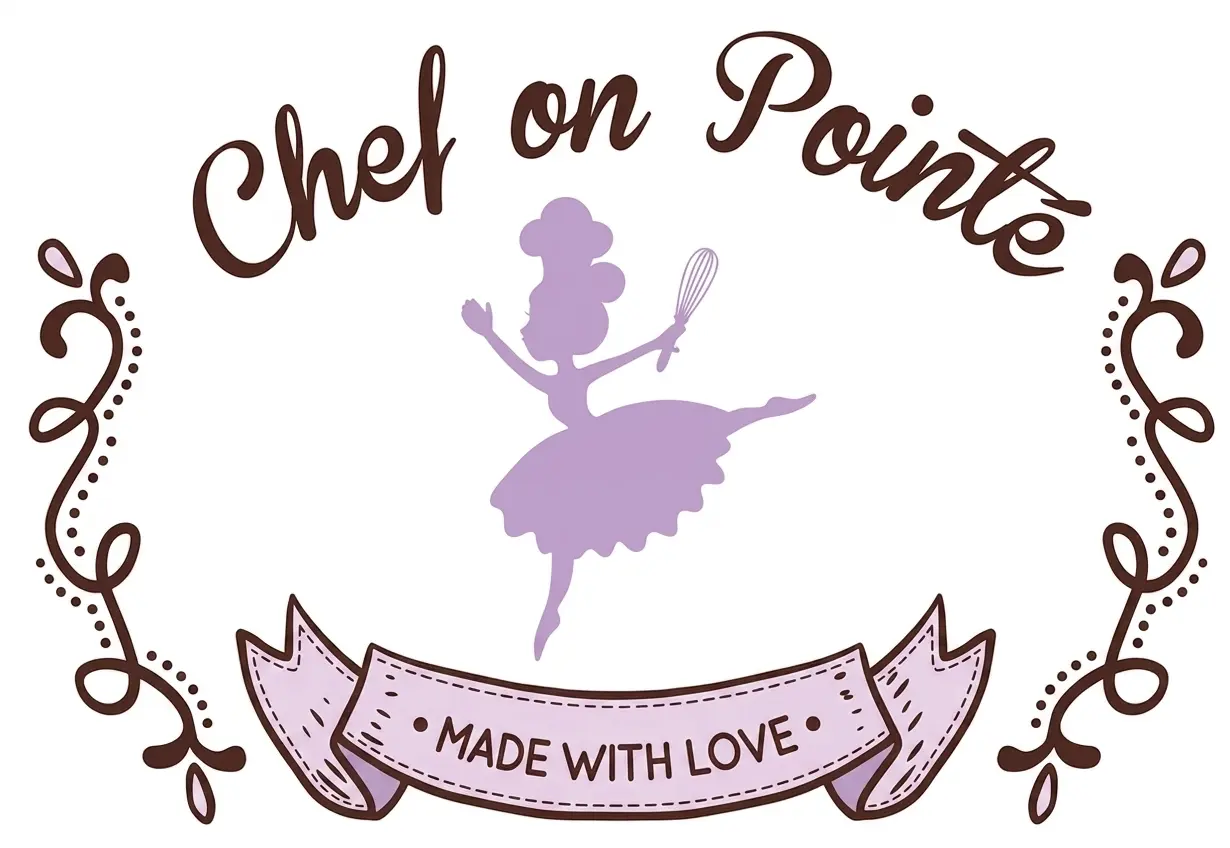
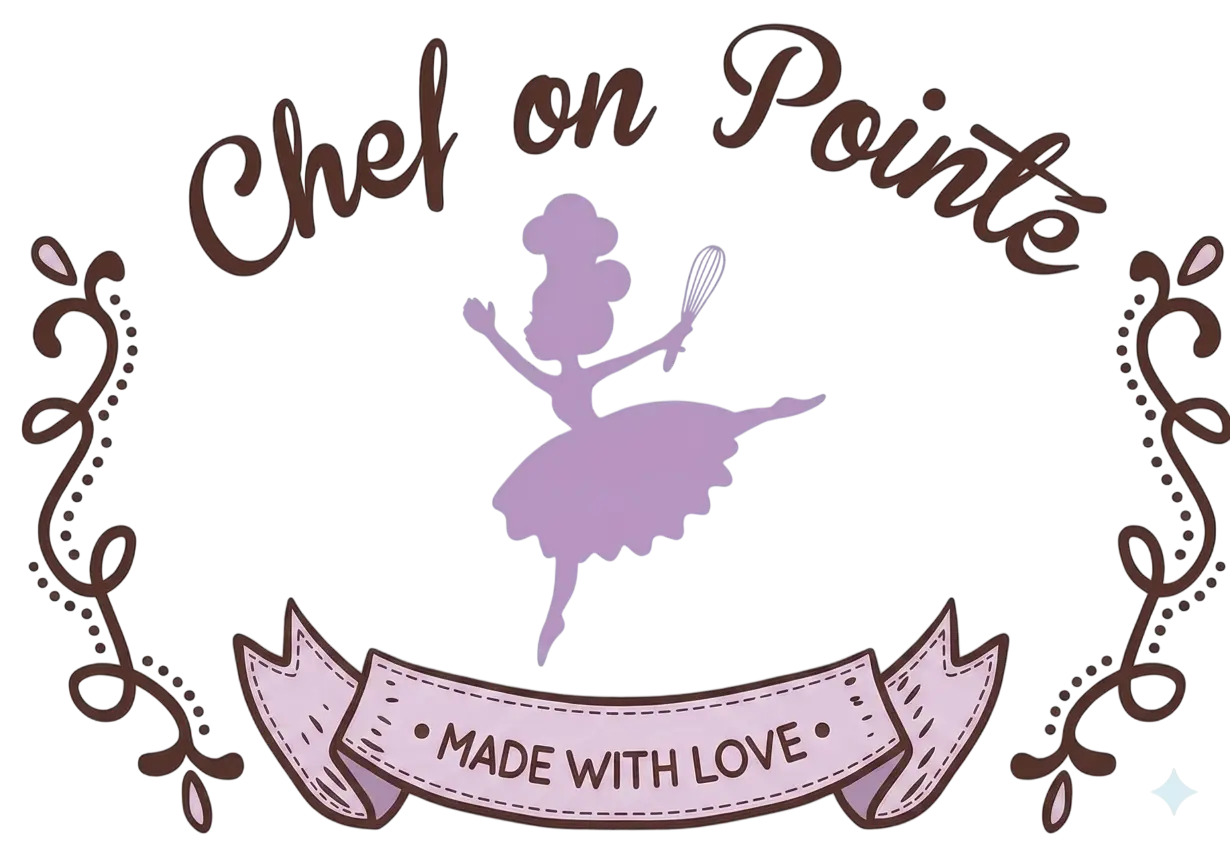
feat: add admin-sidebar and cleanup

diff --git a/features/admin/constants/sidebar-config.ts b/features/admin/constants/sidebar-config.ts
@@ -1,4 +1,4 @@
-import { LayoutDashboard, ShoppingBag, ShoppingCart, Warehouse } from "lucide-react";
+import { LayoutDashboard, ShoppingBag, ShoppingCart, PackageOpen, ScrollText, Inbox, BookCopy, Carrot } from "lucide-react";
 import { ADMIN_ROUTES } from "@/features/admin/constants/routes";
 import type { SidebarItem } from "@/features/admin/types/navigation";
 
@@ -34,6 +34,7 @@ export const ADMIN_SIDEBAR_CONFIG: SidebarItem[] = [
         type: "link",
         id: "products-item",
         label: "Item",
+        icon: Inbox,
         href: ADMIN_ROUTES.productsItem,
         activeMatch: "exact",
       },
@@ -41,6 +42,7 @@ export const ADMIN_SIDEBAR_CONFIG: SidebarItem[] = [
         type: "link",
         id: "products-recipe",
         label: "Recipe",
+        icon: ScrollText,
         href: ADMIN_ROUTES.productsRecipe,
       },
     ],
@@ -49,19 +51,21 @@ export const ADMIN_SIDEBAR_CONFIG: SidebarItem[] = [
     type: "group",
     id: "inventory",
     label: "Inventory",
-    icon: Warehouse,
+    icon: PackageOpen,
     defaultOpen: true,
     children: [
       {
         type: "link",
         id: "inventory-ingredients",
         label: "Ingredients",
+        icon: Carrot,
         href: ADMIN_ROUTES.inventoryIngredients,
       },
       {
         type: "link",
         id: "inventory-stock-opname",
         label: "Stock Opname",
+        icon: BookCopy,
         href: ADMIN_ROUTES.inventoryStockOpname,
       },
     ],

diff --git a/components/layouts/guests/HeaderSection.tsx b/components/layouts/guests/HeaderSection.tsx
@@ -5,7 +5,7 @@ import Image from "next/image";
 import { usePathname } from "next/navigation";
 import { ShoppingCart, Home, BookOpen } from "lucide-react";
 import { cn } from "@/lib/utils";
-import Logo from "@/public/favicon.png";
+import Logo from "@/public/Chef-on-Pointe.webp";
 
 const navLinks = [
     { label: "Home", href: "/", icon: Home },

diff --git a/features/admin/components/sidebar/sidebar-brand.tsx b/features/admin/components/sidebar/sidebar-brand.tsx
@@ -27,7 +27,7 @@ export function SidebarBrand({ isCollapsed, isMobile, onToggleCollapsed }: Sideb
                 >
                     <div className="flex size-8 items-center justify-center text-primary-foreground shrink-0 overflow-hidden">
                         <Image
-                            src="/favicon.png"
+                            src="/Chef-on-Pointe.webp"
                             alt="Chef on Pointe"
                             width={32}
                             height={32}

diff --git a/app/api/admin/ingredients/route.ts b/app/api/admin/ingredients/route.ts
@@ -50,6 +50,7 @@ const postHandler = async (request: NextRequest) => {
         sku: sku.toUpperCase(),
         name,
         baseUnitId,
+        preferredSupplierId: BigInt(1),
         reorderLevelBaseQty: reorderValue.toString(),
         isActive: true,
       })